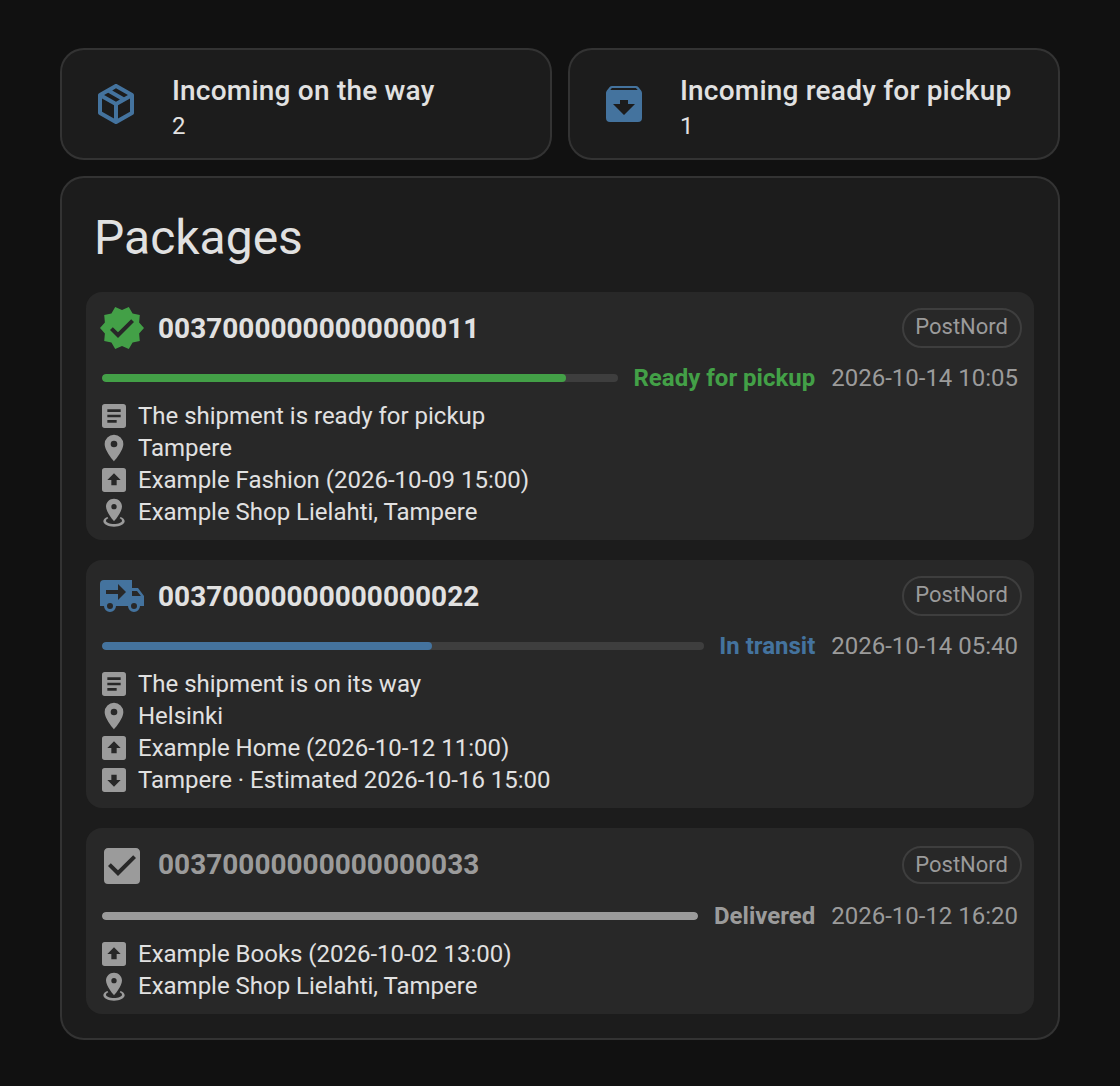
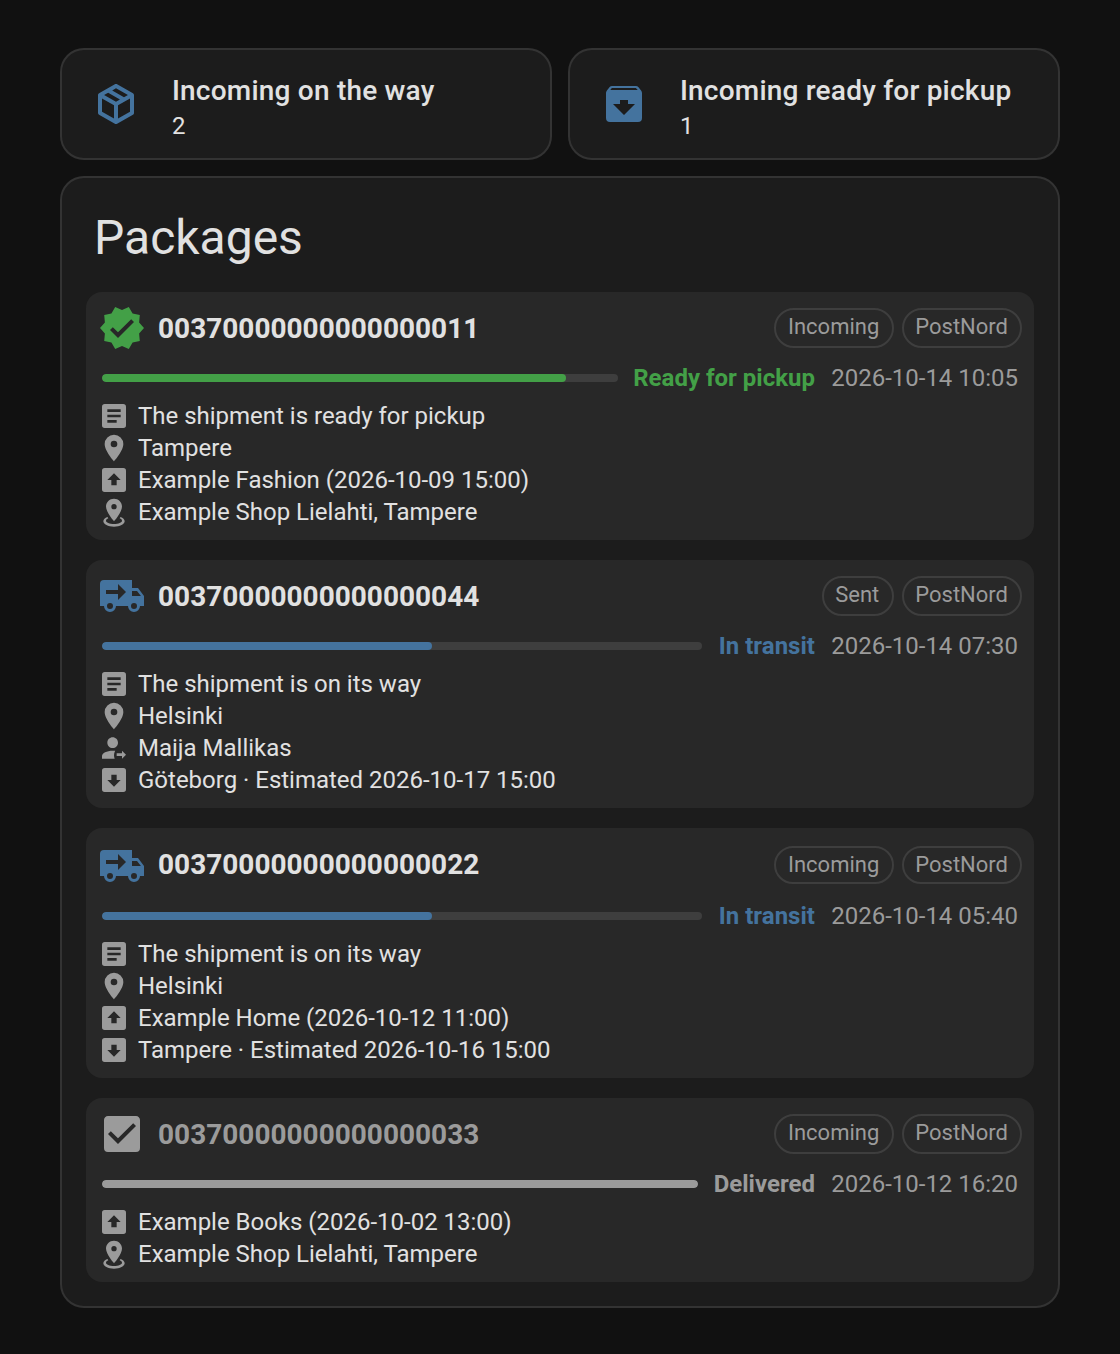
Describe sent packages in the README and show one in its screenshot
What is it? says the integration lists sent packages too and tells them apart, and counts them with four sensors.
The dashboard screenshot has a sent package, and the card marks each package incoming or sent.

diff --git a/README.md b/README.md
@@ -4,22 +4,22 @@ Home Assistant integration that follows the parcels of a PostNord account.
 
 [![GitHub Release][releases-shield]][releases] [![GitHub Release Date][release-date-shield]][releases] [![HACS][hacs-shield]][hacs] [![License][license-shield]](LICENSE)
 
-<img src="https://raw.githubusercontent.com/jesmak/postnord_tracking/main/docs/images/dashboard-light.png#gh-light-mode-only" width="560" alt="A dashboard with the counts of packages on the way and ready for pickup, and package-tracker-card listing a parcel ready for pickup at a service point, one on its way and one delivered">
-<img src="https://raw.githubusercontent.com/jesmak/postnord_tracking/main/docs/images/dashboard-dark.png#gh-dark-mode-only" width="560" alt="A dashboard with the counts of packages on the way and ready for pickup, and package-tracker-card listing a parcel ready for pickup at a service point, one on its way and one delivered">
+<img src="https://raw.githubusercontent.com/jesmak/postnord_tracking/main/docs/images/dashboard-light.png#gh-light-mode-only" width="560" alt="A dashboard with the counts of incoming packages on the way and ready for pickup, and package-tracker-card listing a parcel ready for pickup at a service point, one sent to someone else, one on its way and one delivered, each marked incoming or sent">
+<img src="https://raw.githubusercontent.com/jesmak/postnord_tracking/main/docs/images/dashboard-dark.png#gh-dark-mode-only" width="560" alt="A dashboard with the counts of incoming packages on the way and ready for pickup, and package-tracker-card listing a parcel ready for pickup at a service point, one sent to someone else, one on its way and one delivered, each marked incoming or sent">
 
 ## What is it?
 
 A custom component that lists the coming and recently delivered parcels of a [PostNord](https://www.postnord.fi/)
-account. There's no need to add parcels by hand. The list comes from the parcels in your account, and it's updated
-every 10 minutes. PostNord keeps delivered parcels in the account too, so recent deliveries stay listed for as long as
-you choose.
+account, and those sent from it, telling the two apart. There's no need to add parcels by hand. The list comes from the
+parcels in your account, and it's updated every 10 minutes. PostNord keeps delivered parcels in the account too, so
+recent deliveries stay listed for as long as you choose.
 
-It has been made and tested with a Finnish PostNord account. The login and the service are the same PostNord app
-ones in Sweden, Denmark and Norway, so accounts there should work as well, but they haven't been tried.
+It has been made and tested with a Finnish PostNord account. The login and the service are the same PostNord app ones in
+Sweden, Denmark and Norway, so accounts there should work as well, but they haven't been tried.
 
 The sensor lists the packages in the format [package-tracker-card](https://github.com/jesmak/package-tracker-card)
-reads, so the card can show them together with packages from other tracking integrations. Two more sensors count the
-packages, and an event entity fires when one of them moves along.
+reads, so the card can show them together with packages from other tracking integrations. Four more sensors count the
+packages coming to you and those you have sent, and an event entity fires when one of them moves along.
 
 This is an unofficial integration. See [Data](#data) for what that means.
 
@@ -209,8 +209,8 @@ entity: sensor.postnord_matti_meikalainen_example_com
 The one **Maximum number of packages** became two, one for incoming packages and one for sent ones. Both take the
 number the account had. **Packages on the way** and **Packages ready for pickup** are now **Incoming on the way** and
 **Incoming ready for pickup**, and no longer count packages sent from the account, which have sensors of their own.
-Their entity IDs stay as they were. Events of sent packages still fire, now with `direction`. Add the
-condition in the example above to an automation that should leave them out.
+Their entity IDs stay as they were. Events of sent packages still fire, now with `direction`. Add the condition in the
+example above to an automation that should leave them out.
 
 The account, the sensors, the event entity, their entity IDs and the other settings all carry over.
 
